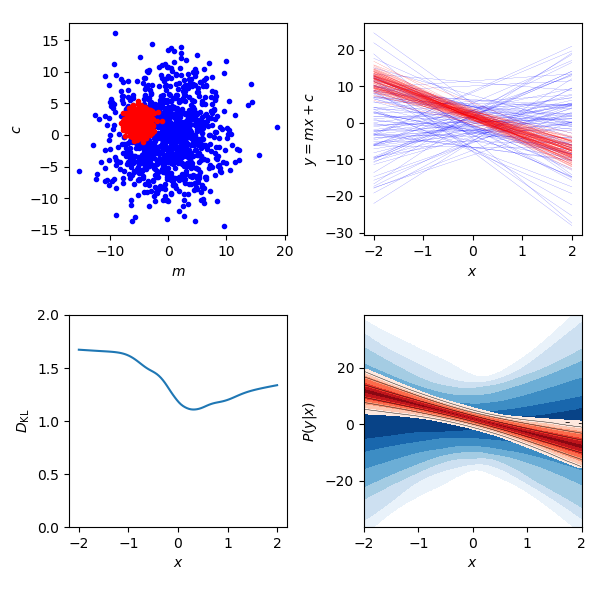
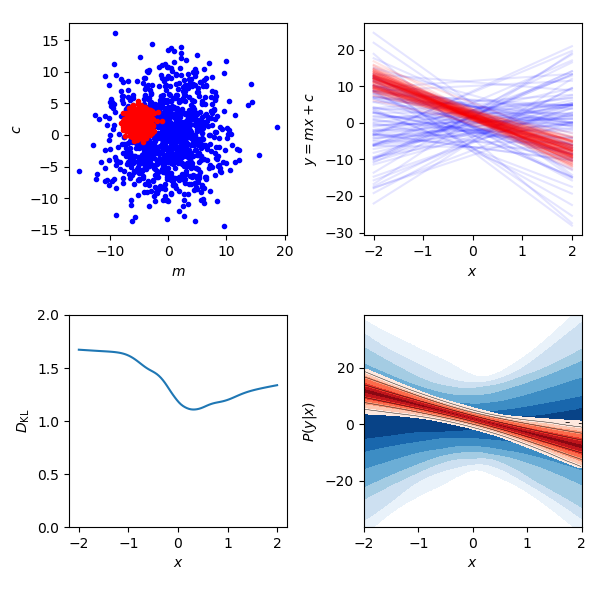
Added alpha to the line plots

Changed region(s): [[0.6, 0.09, 0.96, 0.3]]

diff --git a/fgivenx/plot.py b/fgivenx/plot.py
@@ -132,7 +132,7 @@ def plot_lines(x, fsamps, ax=None, downsample=100, **kwargs):
         indices = numpy.random.choice(len(fsamps.T), downsample, replace=False)
     else:
         indices = numpy.arange(len(fsamps.T))
-    linewidth = kwargs.pop('linewidth', 0.1)
     color = kwargs.pop('color', 'k')
+    alpha = kwargs.pop('alpha', 0.1)
     for y in fsamps.T[indices]:
-        ax.plot(x, y, linewidth=linewidth, color=color, **kwargs)
+        ax.plot(x, y, color=color, alpha=alpha, **kwargs)
